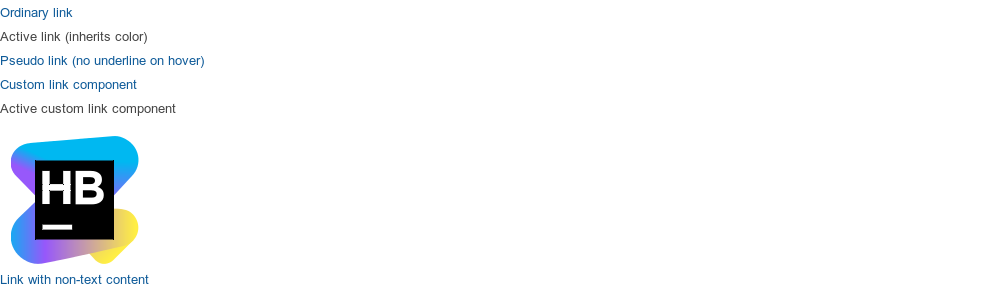
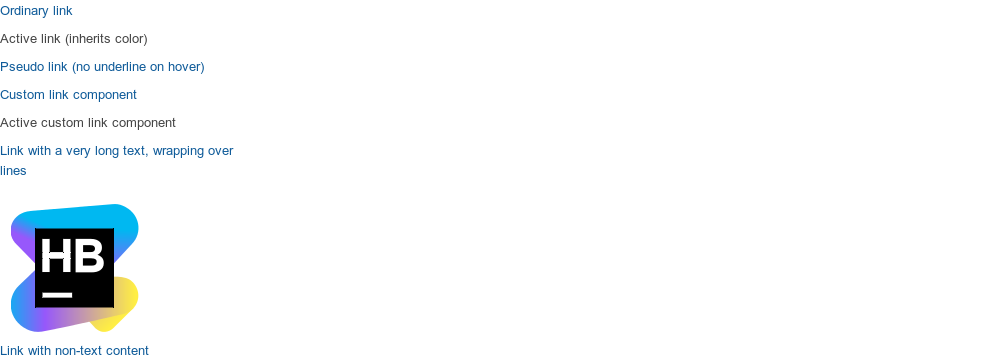
RG-1159 Allow multiline links
Former-commit-id: cb3913b582c468f046ce070179e78de2137415b8

diff --git a/components/link/link.examples.html b/components/link/link.examples.html
@@ -5,16 +5,18 @@
 
   <file type="css">
     :global(.container) {
-      line-height: 24px;
+      width: 240px;
       display: flex;
       flex-direction: column;
       align-items: flex-start;
     }
 
+    :global(.container > * ~ *) {
+      margin-top: 8px;
+    }
+
     :global(.hub-link) {
-      display: flex;
-      flex-direction: column;
-      align-items: center;
+      text-align: center;
     }
 
     :global(.hub-icon) {
@@ -55,11 +57,12 @@
            <Link href="#hash" pseudo>Pseudo link (no underline on hover)</Link>
            <CustomLink href="#hash">Custom link component</CustomLink>
            <CustomLink href="#hash" active>Active custom link component</CustomLink>
+           <Link href="#hash">Link with a very long text, wrapping over lines</Link>
 
            <Link href="#hash" className="hub-link">
             {WrapText => [
               <Icon key="icon" glyph={hubLogo} size={Icon.Size.Size128} className="hub-icon"/>,
-              <WrapText key="text">Link with non-text content</WrapText>
+              <div key="text"><WrapText>Link with non-text content</WrapText></div>
             ]}
            </Link>
          </div>

diff --git a/components/link/link.css b/components/link/link.css
@@ -17,33 +17,15 @@
     color: link-hover-color;
   }
 
-  &:hover .inner::after {
-    opacity: 0.5;
+  &:hover .inner {
+    border-width: 0;
+    border-bottom: 1px solid;
+    border-image-source: linear-gradient(currentcolor 50%, transparent 50%);
+    border-image-slice: 0 0 100% 0;
   }
 
   &.active {
     color: inherit;
-  }
-}
-
-.inner {
-  position: relative;
-
-  display: inline-block;
-
-  line-height: 1.2;
-
-  &::after {
-    position: absolute;
-    top: 0;
-    right: 0;
-    bottom: -1px;
-    left: 0;
-
-    content: '';
-
-    opacity: 0;
-    border-bottom: 1px solid;
   }
 }
 

diff --git a/packages/ring-ui-docs/components/index.css b/packages/ring-ui-docs/components/index.css
@@ -86,3 +86,7 @@ a.legacy {
     font-size: font-size;
   }
 }
+
+.version button {
+  height: auto;
+}

diff --git a/docs/breaking-changes.md b/docs/breaking-changes.md
@@ -6,6 +6,14 @@ order: 2
 
 See the “breaking change” commits [in Upsource](https://upsource.jetbrains.com/ring-ui/view?query=path:%20%7B%2A%2Fbreaking-changes.md%7D%20and%20not%20%22Wording%22).
 
+### 23-07-2017: borders are used for link underline instead of text-decoration 
+
+This allows to put the underline right below the descenders, so that it doesn't cross them, and make it 1 physical pixel wide on retina displays.
+
+If you use some non-textual content along with text inside `Link` component, you may need to pass a function as a child to `Link`, which would take one argument, `WrapText`, and use it to wrap the text parts (see [example with logo](http://ring-ui.github.io/branch/ring-ui-language/link.html#Link)).
+
+Note that `WrapText` relies on the fact that it's an inline element, so if, for example, you use flexbox layout inside `Link`, you may need an additional div around `WrapText`.
+
 ### 06-07-2017: `expect(smth).to` usage is discouraged in favour of `smth.should`
 
 It's not possible to define `should` property on `null` and `undefined` values, so here's a possible workaround:
